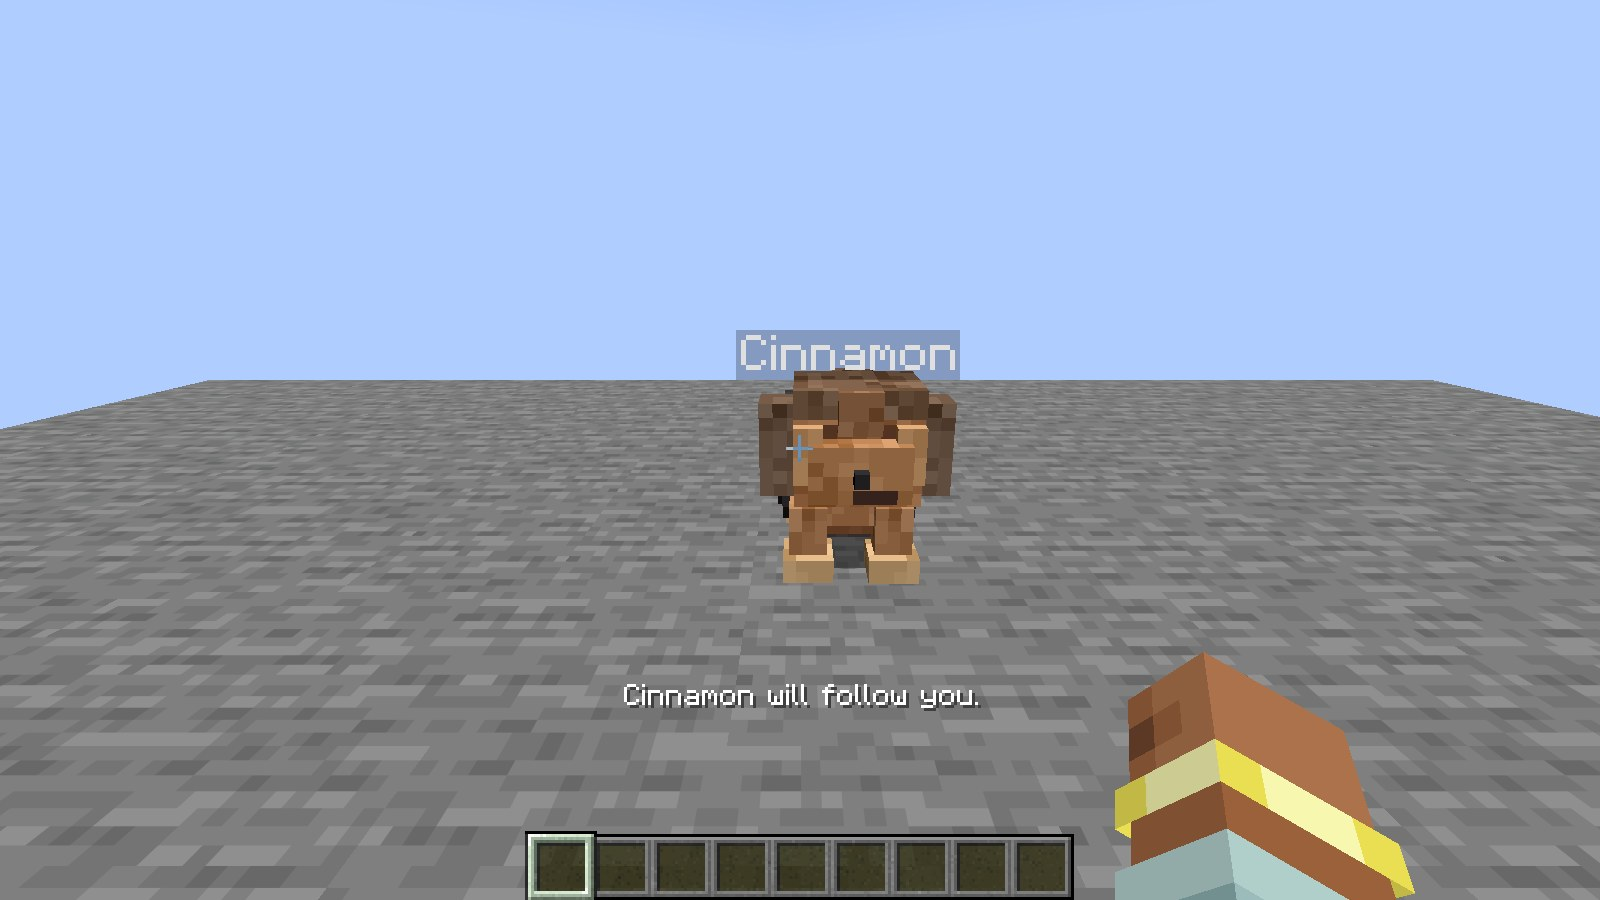
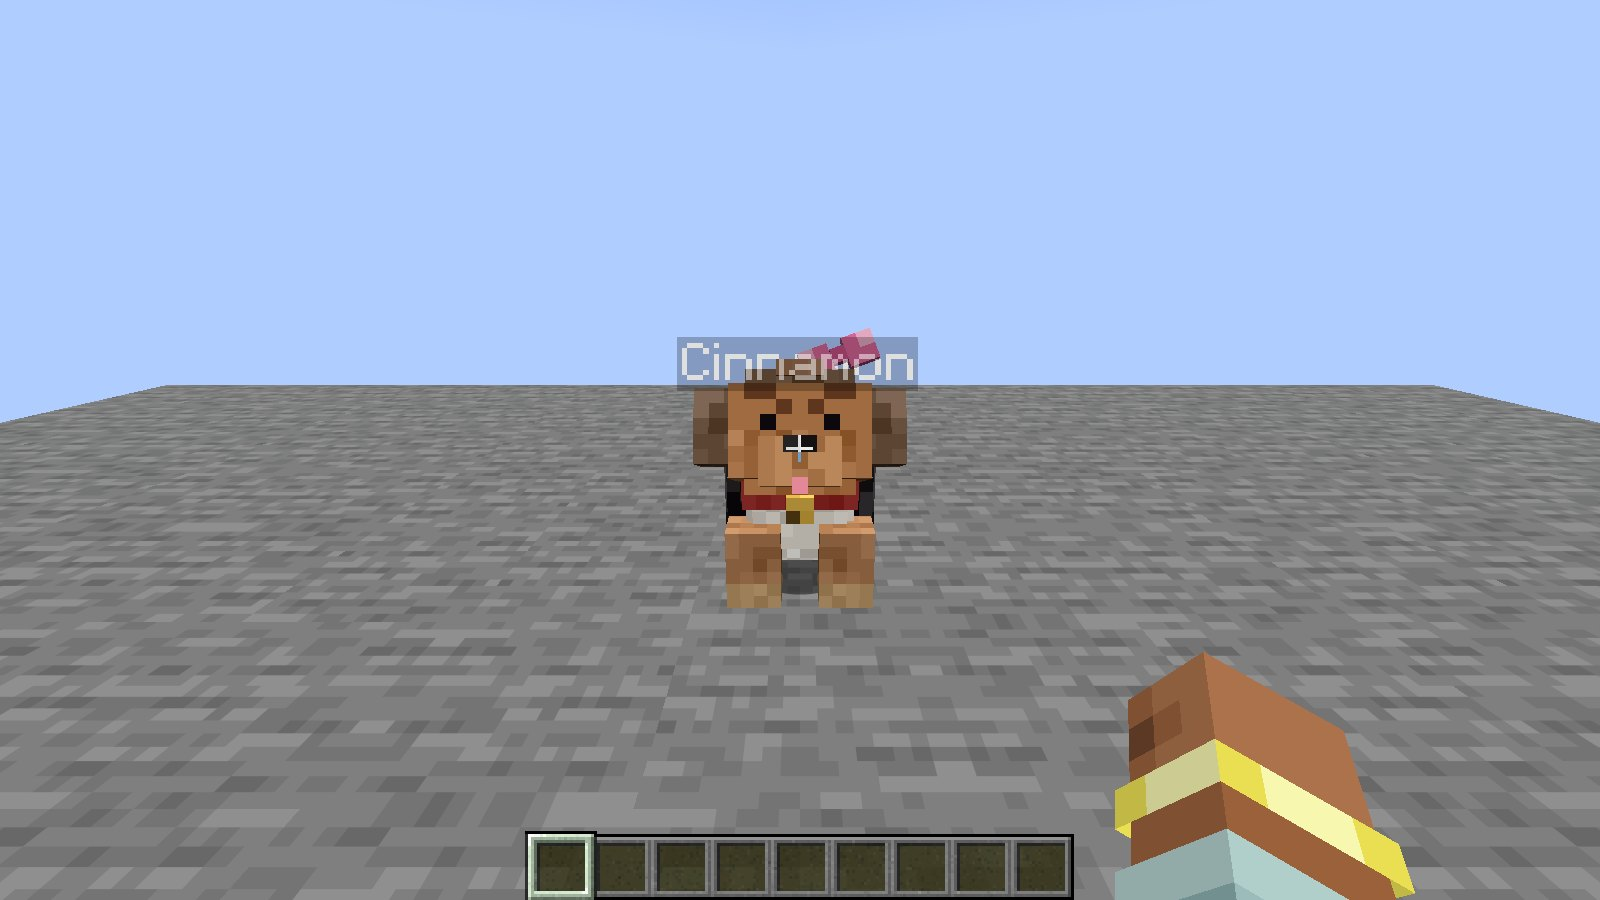
Guide: Cinnamon's bell, tongue, bow and temper, with new pictures of her

diff --git a/src/gametest/java/dev/wildercord/gametest/WildercordCinnamonTest.java b/src/gametest/java/dev/wildercord/gametest/WildercordCinnamonTest.java
@@ -132,6 +132,7 @@ public final class WildercordCinnamonTest implements FabricClientGameTest {
 				player.setItemInHand(InteractionHand.MAIN_HAND, net.minecraft.world.item.ItemStack.EMPTY);
 				check(player.getAttachedOrElse(dev.wildercord.pet.CinnamonState.BOW, false), "her owner should remember the bow");
 				dog.showOff(200);
+				dog.setCustomNameVisible(false);
 			});
 			context.waitTicks(3);
 			world.getServer().runOnServer(server -> {

diff --git a/gitbook/companions/cinnamon.md b/gitbook/companions/cinnamon.md
@@ -2,9 +2,9 @@
 
 A small companion with a big personality. Cinnamon has her own model, an immortal heart, and one player to call home.
 
-![Cinnamon, the small custom dog, waiting near her owner.](https://raw.githubusercontent.com/defnotean/wildercord/main/wiki/assets/images/cinnamon-front.jpg)
+![Cinnamon in her pink bow, with the tip of her tongue out and her bell on her collar.](https://raw.githubusercontent.com/defnotean/wildercord/main/wiki/assets/images/cinnamon-front.jpg)
 
-Small paws. A dark coat. Always by your side.
+A pink bow, a gold bell and the tip of a tongue. Always by your side.
 
 
 ## Choose her owner
@@ -32,10 +32,19 @@ Interact with Cinnamon in a few simple ways.
 | Click | Switch between sitting and following |
 | Sneak-click | Pet her without changing her sit preference |
 | Use Cinnamon's Red Bone | Wake her and play |
+| Use Cinnamon's Bow | She wears it |
+| Use shears | Untie her bow and get it back |
 
 Her sitting preference is saved on her owner and survives replacement, rejoining, death and dimension travel. Greetings and petting bring an eager tail wag. She occasionally tilts her head, and after sitting quietly for ten seconds curls down and closes her eyes.
 
 Craft her reusable Red Bone from a **bone, red dye and slime ball**. It never changes her owner or her saved sitting preference.
+
+## Her bell, her bow and her temper
+
+- **Her collar bell** jingles every 20 to 40 seconds, loud enough to hear from a good way off, so you can find her by ear. To quiet it, add `"bell": false` to `config/wildercord-cinnamon.json`.
+- **Now and then** she sticks the tip of her tongue out for a few seconds, even in her sleep.
+- **Cinnamon's Bow** is her armour, of a kind: craft it from **two string and pink dye** and use it on her. Like her sitting choice, it's kept on her owner, so she still wears it after rejoining, death or dimension travel.
+- **She defends you.** Anyone who hurts her owner gets bitten, the way a tame dog would. She stays put while she's sitting, and leaves creepers, her owner's other pets and players you can't fight alone.
 
 ![Cinnamon curled up and resting after sitting quietly.](https://raw.githubusercontent.com/defnotean/wildercord/main/wiki/assets/images/cinnamon-resting.jpg)
 
@@ -46,6 +55,6 @@ A little rest between adventures.
 
 Cinnamon takes no damage from combat, fire, falls or magic. If she falls into the void or becomes trapped in a solid block, she returns to a safe nearby surface. When no safe surface exists, she waits instead of spawning inside a hazard.
 
-Her replaceable body returns near her owner after dimension travel, rather than staying behind. Her dark, rounded body, tan face and legs, floppy ears and shaggy paws use a separate entity, model and texture from Minecraft's wolf.
+Her replaceable body returns near her owner after dimension travel, rather than staying behind. Her round tan face with its little angry brows, dark saddle, white belly, floppy ears, fluffy legs and black nub of a tail use a separate entity, model and texture from Minecraft's wolf.
 
 If she spawns but does not respond to a click, check the configured owner and use the [troubleshooting guide](../troubleshooting.md).

diff --git a/wiki/companions/cinnamon.md b/wiki/companions/cinnamon.md
@@ -12,9 +12,9 @@ next_title: Familiar jobs and event echoes
 
 A small companion with a big personality. Cinnamon has her own model, an immortal heart, and one player to call home.
 
-![Cinnamon, the small custom dog, waiting near her owner.]({{ '/assets/images/cinnamon-front.jpg' | relative_url }})
+![Cinnamon in her pink bow, with the tip of her tongue out and her bell on her collar.]({{ '/assets/images/cinnamon-front.jpg' | relative_url }})
 
-Small paws. A dark coat. Always by your side.
+A pink bow, a gold bell and the tip of a tongue. Always by your side.
 {: .caption }
 
 ## Choose her owner
@@ -42,10 +42,19 @@ Interact with Cinnamon in a few simple ways.
 | Click | Switch between sitting and following |
 | Sneak-click | Pet her without changing her sit preference |
 | Use Cinnamon's Red Bone | Wake her and play |
+| Use Cinnamon's Bow | She wears it |
+| Use shears | Untie her bow and get it back |
 
 Her sitting preference is saved on her owner and survives replacement, rejoining, death and dimension travel. Greetings and petting bring an eager tail wag. She occasionally tilts her head, and after sitting quietly for ten seconds curls down and closes her eyes.
 
 Craft her reusable Red Bone from a **bone, red dye and slime ball**. It never changes her owner or her saved sitting preference.
+
+## Her bell, her bow and her temper
+
+- **Her collar bell** jingles every 20 to 40 seconds, loud enough to hear from a good way off, so you can find her by ear. To quiet it, add `"bell": false` to `config/wildercord-cinnamon.json`.
+- **Now and then** she sticks the tip of her tongue out for a few seconds, even in her sleep.
+- **Cinnamon's Bow** is her armour, of a kind: craft it from **two string and pink dye** and use it on her. Like her sitting choice, it's kept on her owner, so she still wears it after rejoining, death or dimension travel.
+- **She defends you.** Anyone who hurts her owner gets bitten, the way a tame dog would. She stays put while she's sitting, and leaves creepers, her owner's other pets and players you can't fight alone.
 
 ![Cinnamon curled up and resting after sitting quietly.]({{ '/assets/images/cinnamon-resting.jpg' | relative_url }})
 
@@ -56,6 +65,6 @@ A little rest between adventures.
 
 Cinnamon takes no damage from combat, fire, falls or magic. If she falls into the void or becomes trapped in a solid block, she returns to a safe nearby surface. When no safe surface exists, she waits instead of spawning inside a hazard.
 
-Her replaceable body returns near her owner after dimension travel, rather than staying behind. Her dark, rounded body, tan face and legs, floppy ears and shaggy paws use a separate entity, model and texture from Minecraft's wolf.
+Her replaceable body returns near her owner after dimension travel, rather than staying behind. Her round tan face with its little angry brows, dark saddle, white belly, floppy ears, fluffy legs and black nub of a tail use a separate entity, model and texture from Minecraft's wolf.
 
 If she spawns but does not respond to a click, check the configured owner and use the [troubleshooting guide]({{ '/troubleshooting/' | relative_url }}).
